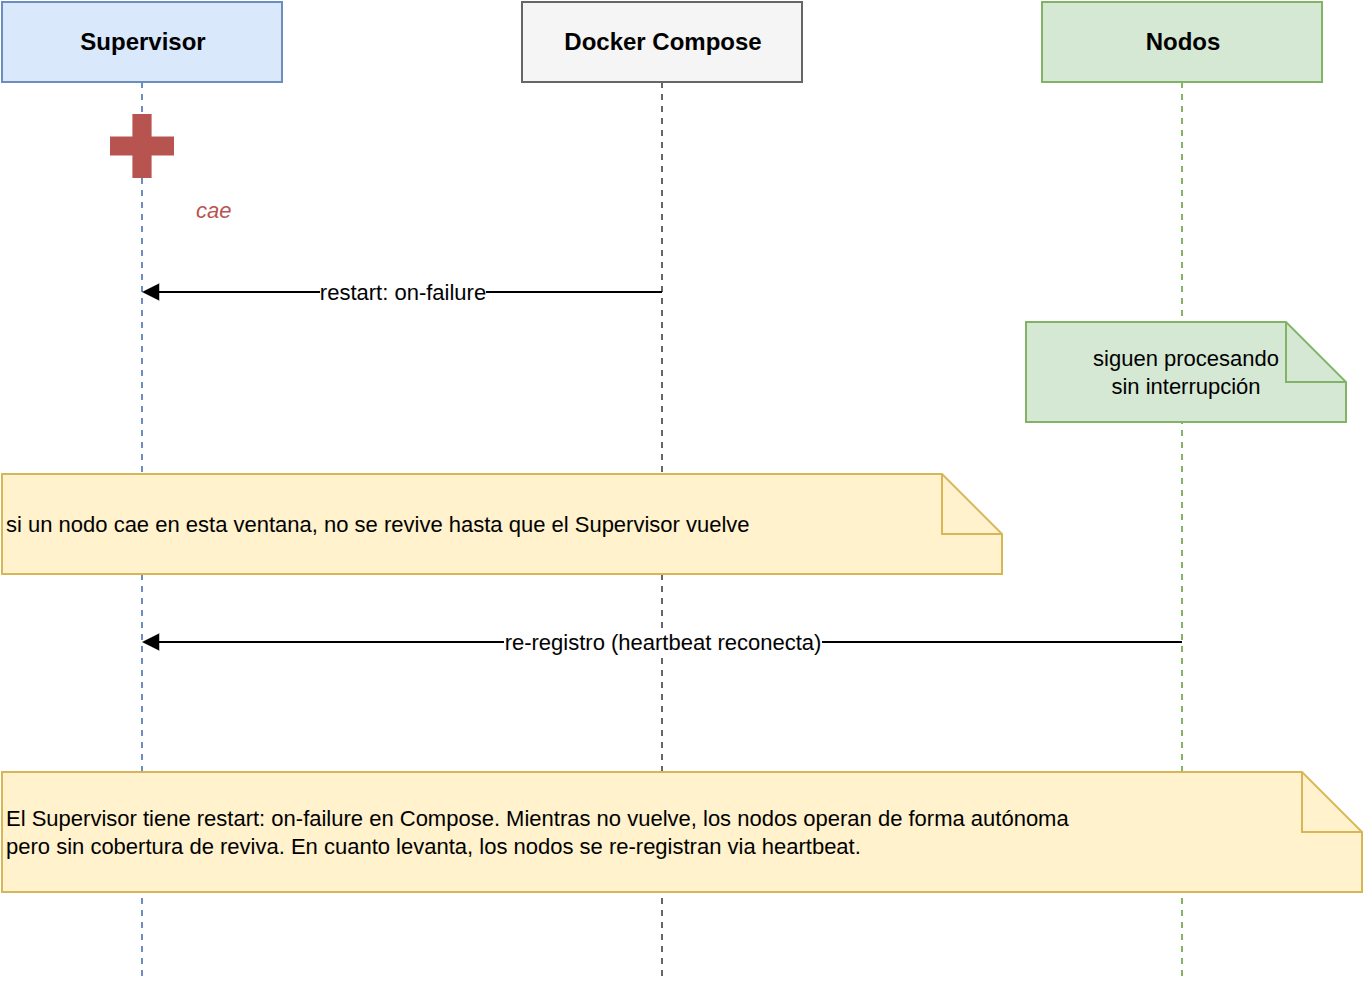
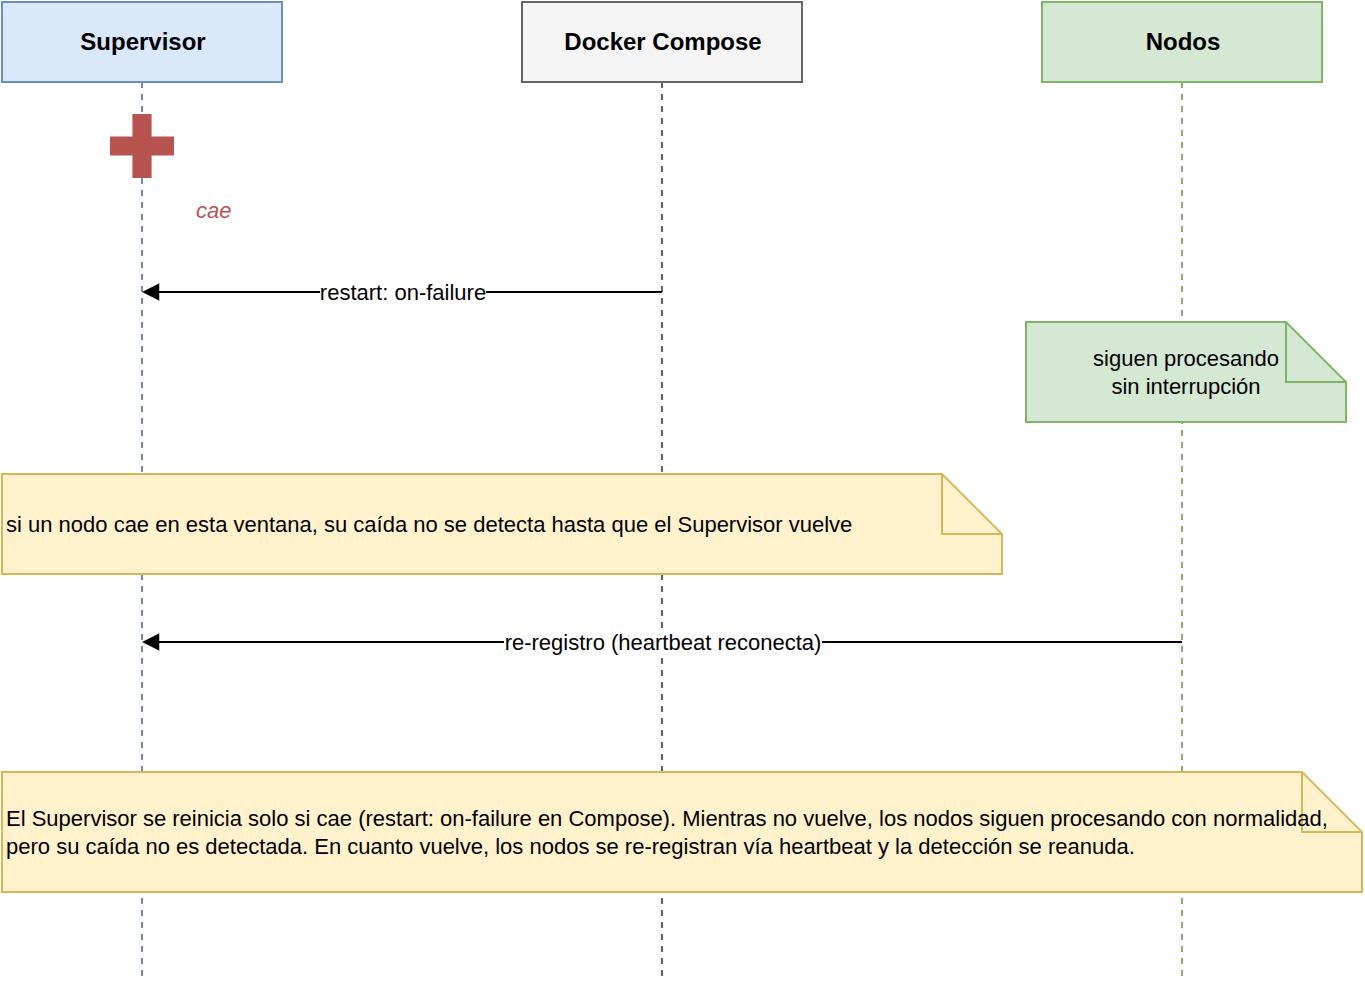
docs(diagrams): keep FT diagrams to supervision-by-heartbeat only
Remove the Chaos Monkey node and the supervisor "revive"/docker-start edges
from the fault-tolerance architecture diagram, strip the revival lifeline and
messages from the heartbeat sequence (leaving registration + heartbeat +
dead detection), and reword the supervisor-failure scenario so it talks about
detection pausing, not revival. Chaos and node revival are presented only in
Testing, as the simulation, not as production infrastructure. Also drop the
pinned config values from these diagrams.

Changed region(s): [[0.0308, 0.8223, 0.9846, 0.8832], [0.2462, 0.5178, 0.6154, 0.5482]]

diff --git a/doc/informe/src/informe.tex b/doc/informe/src/informe.tex
@@ -898,11 +898,11 @@ en el que la correctitud depende del reintento del cliente.
 \end{figure}
 
 \subsubsection{Caída del Supervisor}
-Docker Compose lo reinicia (\texttt{restart: on-failure}). Los nodos siguen
-procesando sin interrupción; si alguno cae durante la ventana de caída
-del Supervisor, no se revive hasta que éste vuelve y los nodos se
-re-registran. No hay falla en cascada: la liveness del Supervisor está
-desacoplada de la correctitud del pipeline.
+El Supervisor se reinicia solo si cae (\texttt{restart: on-failure}). Los
+nodos siguen procesando sin interrupción; si alguno cae durante la ventana
+de caída del Supervisor, su caída no se detecta hasta que éste vuelve y los
+nodos se re-registran. No hay falla en cascada: la liveness del Supervisor
+está desacoplada de la correctitud del pipeline.
 
 \begin{figure}[H]
   \centering